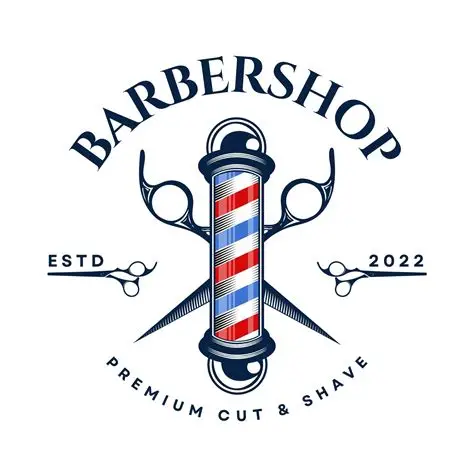
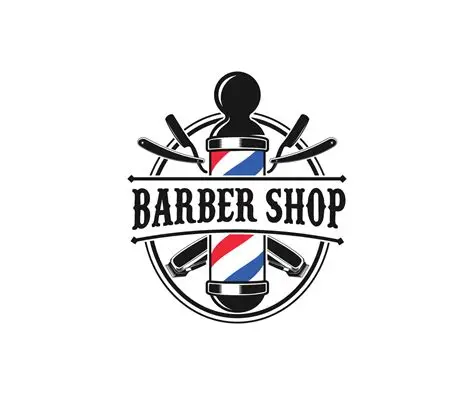
Fase 3: orari con logica aperto/chiuso e recensioni di esempio
- Emblema di sfondo sostituito con la seconda immagine fornita, stessa
  lavorazione (bianco trasparente + tinta oro) e ritaglio del bordo vuoto
- Orari: tabella HTML statica dei 7 giorni, leggibile anche senza JS;
  JS evidenzia la riga di oggi con barra oro ed etichetta "Oggi" (non solo
  colore, per chi non distingue i colori) e calcola Aperto/Chiuso ora con
  il prossimo orario utile, ricontrollato ogni minuto
- Recensioni: 3 card marcate "Recensione di esempio" con nota in chiaro sul
  perche' non possono restare finte, bottone Google con TODO sul link
- CSS: sezioni orari e recensioni, utility .sr-only, cifre tabular-nums

Claude-Session: https://claude.ai/code/session_01LPXqSkWR4KYigTCr77Jiez

Changed region(s): [[0.089, 0.0911, 0.9195, 0.9114], [0.6229, 0.7291, 0.7712, 0.8506]]

diff --git a/index.html b/index.html
@@ -239,6 +239,124 @@
     </div>
   </section>
 
+  <!-- ===================== ORARI ===================== -->
+  <section class="sezione" id="orari" data-reveal>
+    <div class="wrap">
+      <p class="eyebrow">Orari</p>
+      <h2 class="sezione-titolo">Quando siamo aperti</h2>
+      <p class="sezione-intro">
+        Sette giorni su sette, festivi compresi. Nessuna chiusura infrasettimanale.
+      </p>
+
+      <div class="orari-box">
+        <!-- La tabella e' scritta nell'HTML, non generata da JS: resta
+             leggibile (e indicizzabile) anche senza JavaScript.
+             JS si limita a evidenziare il giorno di oggi. -->
+        <table class="orari-tabella">
+          <caption class="sr-only">Orari di apertura settimanali</caption>
+          <tbody>
+            <!-- data-giorno segue Date.getDay(): domenica = 0, lunedi' = 1 ... -->
+            <tr data-giorno="1"><th scope="row">Lunedì</th>   <td>09:00 – 21:00</td></tr>
+            <tr data-giorno="2"><th scope="row">Martedì</th>  <td>09:00 – 21:00</td></tr>
+            <tr data-giorno="3"><th scope="row">Mercoledì</th><td>09:00 – 21:00</td></tr>
+            <tr data-giorno="4"><th scope="row">Giovedì</th>  <td>09:00 – 21:00</td></tr>
+            <tr data-giorno="5"><th scope="row">Venerdì</th>  <td>09:00 – 21:00</td></tr>
+            <tr data-giorno="6"><th scope="row">Sabato</th>   <td>09:00 – 21:00</td></tr>
+            <tr data-giorno="0"><th scope="row">Domenica</th> <td>09:00 – 21:00</td></tr>
+          </tbody>
+        </table>
+
+        <!-- Riempito da JS: pastiglia aperto/chiuso + prossimo orario utile -->
+        <div class="orari-stato" id="orari-stato" aria-live="polite"></div>
+      </div>
+
+      <p class="nota">
+        Chiusure straordinarie o ferie? Le trovi sul nostro
+        <a class="link-oro" href="https://www.instagram.com/parrucchiere_della_citta/" target="_blank" rel="noopener">profilo Instagram</a>.
+      </p>
+    </div>
+  </section>
+
+  <!-- ===================== RECENSIONI ===================== -->
+  <section class="sezione sezione-alt" id="recensioni" data-reveal>
+    <div class="wrap">
+      <p class="eyebrow">Recensioni</p>
+      <h2 class="sezione-titolo">Dicono di noi</h2>
+      <p class="sezione-intro">
+        I testi qui sotto sono segnaposto: nella versione ufficiale vanno
+        sostituiti con recensioni reali, riportate parola per parola.
+      </p>
+
+      <!-- ======================= DA SOSTITUIRE =======================
+           Queste 3 recensioni sono INVENTATE e dichiarate tali.
+           Pubblicare recensioni finte senza etichetta e' una pratica
+           commerciale scorretta (Codice del Consumo, art. 21-23).
+           Nella versione ufficiale: copiare recensioni vere da Google,
+           con il nome dell'autore, oppure togliere del tutto la sezione.
+           ============================================================= -->
+      <ul class="recensioni-griglia">
+
+        <li class="card recensione">
+          <p class="recensione-tag">Recensione di esempio</p>
+          <div class="stelle" role="img" aria-label="Valutazione 5 stelle su 5">
+            <svg viewBox="0 0 24 24" aria-hidden="true"><path d="m12 2 3 6.6 7 .8-5.2 4.9 1.4 7L12 17.8 5.8 21.3l1.4-7L2 9.4l7-.8z"/></svg>
+            <svg viewBox="0 0 24 24" aria-hidden="true"><path d="m12 2 3 6.6 7 .8-5.2 4.9 1.4 7L12 17.8 5.8 21.3l1.4-7L2 9.4l7-.8z"/></svg>
+            <svg viewBox="0 0 24 24" aria-hidden="true"><path d="m12 2 3 6.6 7 .8-5.2 4.9 1.4 7L12 17.8 5.8 21.3l1.4-7L2 9.4l7-.8z"/></svg>
+            <svg viewBox="0 0 24 24" aria-hidden="true"><path d="m12 2 3 6.6 7 .8-5.2 4.9 1.4 7L12 17.8 5.8 21.3l1.4-7L2 9.4l7-.8z"/></svg>
+            <svg viewBox="0 0 24 24" aria-hidden="true"><path d="m12 2 3 6.6 7 .8-5.2 4.9 1.4 7L12 17.8 5.8 21.3l1.4-7L2 9.4l7-.8z"/></svg>
+          </div>
+          <blockquote>
+            <p>Testo di esempio. Qui andrà la recensione di un cliente reale: com'è stato accolto, che taglio ha chiesto e come si è trovato.</p>
+          </blockquote>
+          <p class="recensione-autore">Nome del cliente</p>
+        </li>
+
+        <li class="card recensione">
+          <p class="recensione-tag">Recensione di esempio</p>
+          <div class="stelle" role="img" aria-label="Valutazione 5 stelle su 5">
+            <svg viewBox="0 0 24 24" aria-hidden="true"><path d="m12 2 3 6.6 7 .8-5.2 4.9 1.4 7L12 17.8 5.8 21.3l1.4-7L2 9.4l7-.8z"/></svg>
+            <svg viewBox="0 0 24 24" aria-hidden="true"><path d="m12 2 3 6.6 7 .8-5.2 4.9 1.4 7L12 17.8 5.8 21.3l1.4-7L2 9.4l7-.8z"/></svg>
+            <svg viewBox="0 0 24 24" aria-hidden="true"><path d="m12 2 3 6.6 7 .8-5.2 4.9 1.4 7L12 17.8 5.8 21.3l1.4-7L2 9.4l7-.8z"/></svg>
+            <svg viewBox="0 0 24 24" aria-hidden="true"><path d="m12 2 3 6.6 7 .8-5.2 4.9 1.4 7L12 17.8 5.8 21.3l1.4-7L2 9.4l7-.8z"/></svg>
+            <svg viewBox="0 0 24 24" aria-hidden="true"><path d="m12 2 3 6.6 7 .8-5.2 4.9 1.4 7L12 17.8 5.8 21.3l1.4-7L2 9.4l7-.8z"/></svg>
+          </div>
+          <blockquote>
+            <p>Testo di esempio. Spazio per una recensione che parli del lavoro fatto: fade, barba, colore o disegno rasato.</p>
+          </blockquote>
+          <p class="recensione-autore">Nome del cliente</p>
+        </li>
+
+        <li class="card recensione">
+          <p class="recensione-tag">Recensione di esempio</p>
+          <div class="stelle" role="img" aria-label="Valutazione 5 stelle su 5">
+            <svg viewBox="0 0 24 24" aria-hidden="true"><path d="m12 2 3 6.6 7 .8-5.2 4.9 1.4 7L12 17.8 5.8 21.3l1.4-7L2 9.4l7-.8z"/></svg>
+            <svg viewBox="0 0 24 24" aria-hidden="true"><path d="m12 2 3 6.6 7 .8-5.2 4.9 1.4 7L12 17.8 5.8 21.3l1.4-7L2 9.4l7-.8z"/></svg>
+            <svg viewBox="0 0 24 24" aria-hidden="true"><path d="m12 2 3 6.6 7 .8-5.2 4.9 1.4 7L12 17.8 5.8 21.3l1.4-7L2 9.4l7-.8z"/></svg>
+            <svg viewBox="0 0 24 24" aria-hidden="true"><path d="m12 2 3 6.6 7 .8-5.2 4.9 1.4 7L12 17.8 5.8 21.3l1.4-7L2 9.4l7-.8z"/></svg>
+            <svg viewBox="0 0 24 24" aria-hidden="true"><path d="m12 2 3 6.6 7 .8-5.2 4.9 1.4 7L12 17.8 5.8 21.3l1.4-7L2 9.4l7-.8z"/></svg>
+          </div>
+          <blockquote>
+            <p>Testo di esempio. Utile anche una recensione sull'orario comodo: aperti tutti i giorni fino alle 21.</p>
+          </blockquote>
+          <p class="recensione-autore">Nome del cliente</p>
+        </li>
+
+      </ul>
+
+      <div class="recensioni-cta">
+        <!-- TODO: sostituire href="#" con il link vero alle recensioni Google.
+             Come trovarlo: Google Maps > scheda dell'attivita' > Recensioni >
+             Condividi, oppure il link "Scrivi una recensione" del profilo
+             Google Business. Ricordarsi di togliere aria-disabled. -->
+        <a class="btn btn-ghost btn-lg" href="#" aria-disabled="true">
+          <svg class="ico" viewBox="0 0 24 24" aria-hidden="true"><path d="m12 2 3 6.6 7 .8-5.2 4.9 1.4 7L12 17.8 5.8 21.3l1.4-7L2 9.4l7-.8z"/></svg>
+          Leggi le recensioni su Google
+        </a>
+        <p class="nota nota-todo">Link da collegare prima della pubblicazione.</p>
+      </div>
+    </div>
+  </section>
+
 </main>
 
 <script src="js/main.js"></script>

diff --git a/css/style.css b/css/style.css
@@ -115,6 +115,16 @@ h1, h2, h3 {
   outline-offset: 3px;
 }
 
+/* Visibile solo agli screen reader (es. la didascalia della tabella) */
+.sr-only {
+  position: absolute;
+  width: 1px; height: 1px;
+  padding: 0; margin: -1px;
+  overflow: hidden;
+  clip-path: inset(50%);
+  white-space: nowrap;
+}
+
 .skip-link {
   position: absolute;
   left: -9999px;
@@ -320,8 +330,8 @@ h1, h2, h3 {
   top: 50%;
   left: 50%;
   translate: -50% -50%;
-  width: min(118vw, 760px);
-  aspect-ratio: 1 / 1;
+  width: min(112vw, 700px);
+  aspect-ratio: 7 / 8;   /* proporzioni del file emblema-oro.png */
   background: url('../img/emblema-oro.png') center / contain no-repeat;
   opacity: .17;
   pointer-events: none;
@@ -528,7 +538,126 @@ h1, h2, h3 {
 .galleria-cta { margin-top: 26px; text-align: center; }
 .galleria-cta .btn { width: 100%; max-width: 480px; }
 
-/* ----------------------------- 13. DESKTOP -------------------------------- */
+/* ----------------------------- 13. ORARI --------------------------------- */
+.orari-box {
+  max-width: 560px;
+  background: var(--carbone);
+  border: 1px solid var(--bordo);
+  border-radius: var(--radius);
+  overflow: hidden;
+}
+
+.orari-tabella {
+  width: 100%;
+  border-collapse: collapse;
+  font-size: 1rem;
+}
+.orari-tabella th,
+.orari-tabella td {
+  padding: 14px 20px;
+  text-align: left;
+  border-bottom: 1px solid var(--bordo);
+}
+.orari-tabella th {
+  font-weight: 500;
+  color: var(--bianco);
+}
+.orari-tabella td {
+  text-align: right;
+  color: var(--grigio);
+  /* cifre a larghezza fissa: gli orari restano incolonnati */
+  font-variant-numeric: tabular-nums;
+}
+
+/* Giorno di oggi: la classe la mette JS (js/main.js).
+   Il colore da solo non basterebbe per chi non distingue i colori,
+   per questo aggiungiamo anche la barra a sinistra e l'etichetta "Oggi". */
+.orari-tabella tr.is-oggi {
+  background: rgba(201, 162, 39, .1);
+  box-shadow: inset 3px 0 0 var(--oro);
+}
+.orari-tabella tr.is-oggi th,
+.orari-tabella tr.is-oggi td { color: var(--oro); font-weight: 600; }
+
+.oggi-tag {
+  display: inline-block;
+  margin-left: 9px;
+  padding: 2px 8px;
+  border-radius: 999px;
+  background: var(--oro);
+  color: #14100a;
+  font-size: .62rem;
+  font-weight: 700;
+  letter-spacing: .12em;
+  text-transform: uppercase;
+  vertical-align: 2px;
+}
+
+.orari-stato {
+  display: flex;
+  flex-wrap: wrap;
+  align-items: center;
+  gap: 10px;
+  padding: 18px 20px;
+  background: rgba(0, 0, 0, .28);
+  font-size: .93rem;
+  color: var(--grigio);
+}
+
+/* ----------------------------- 14. RECENSIONI ---------------------------- */
+.recensioni-griglia {
+  display: grid;
+  gap: 16px;
+  grid-template-columns: 1fr;
+}
+
+.recensione {
+  display: flex;
+  flex-direction: column;
+  padding: 24px 22px;
+}
+
+/* Etichetta ben visibile: queste recensioni NON sono reali */
+.recensione-tag {
+  align-self: flex-start;
+  margin: 0 0 14px;
+  padding: 4px 10px;
+  border: 1px dashed var(--bordo);
+  border-radius: 999px;
+  font-size: .66rem;
+  font-weight: 600;
+  letter-spacing: .12em;
+  text-transform: uppercase;
+  color: var(--grigio);
+}
+
+.stelle { display: flex; gap: 3px; margin-bottom: 12px; }
+.stelle svg { width: 18px; height: 18px; fill: var(--oro); }
+
+.recensione blockquote { margin: 0 0 18px; }
+.recensione blockquote p {
+  margin: 0;
+  color: var(--bianco);
+  opacity: .9;
+  font-size: 1rem;
+}
+/* margin-top:auto tiene il nome in fondo a tutte le card della riga */
+.recensione-autore {
+  margin: auto 0 0;
+  padding-top: 6px;
+  font-family: var(--titolo);
+  font-size: .92rem;
+  font-weight: 500;
+  letter-spacing: .08em;
+  text-transform: uppercase;
+  color: var(--grigio);
+}
+
+.recensioni-cta { margin-top: 28px; text-align: center; }
+.recensioni-cta .btn { width: 100%; max-width: 420px; }
+.nota-todo { font-size: .82rem; font-style: italic; }
+
+/* ----------------------------- 15. DESKTOP -------------------------------- */
 @media (min-width: 860px) {
   :root { --header-h: 82px; }
 
@@ -561,6 +690,8 @@ h1, h2, h3 {
   .servizi-griglia { grid-template-columns: repeat(4, 1fr); gap: 18px; }
   .galleria { gap: 6px; }
   .galleria-cta { margin-top: 34px; }
+  .recensioni-griglia { grid-template-columns: repeat(3, 1fr); gap: 20px; }
+  .orari-tabella th, .orari-tabella td { padding: 16px 26px; font-size: 1.05rem; }
 
 }
 
@@ -568,7 +699,7 @@ h1, h2, h3 {
   .servizi-griglia { grid-template-columns: repeat(2, 1fr); }
 }
 
-/* ----------------------------- 14. ANIMAZIONI ----------------------------- */
+/* ----------------------------- 16. ANIMAZIONI ----------------------------- */
 /* Le sezioni compaiono con una risalita leggera. La classe .reveal viene
    aggiunta da JS solo se l'utente non ha chiesto meno animazioni. */
 .reveal {

diff --git a/js/main.js b/js/main.js
@@ -87,24 +87,57 @@
     return h + ':' + (m < 10 ? '0' + m : m);
   }
 
-  function aggiornaStato() {
-    var s = statoAttuale(new Date());
+  // Testo della prossima apertura/chiusura, in italiano corrente
+  function prossimoPassaggio(s) {
+    if (s.aperto) return 'Chiudiamo alle ' + hhmm(s.giorno.chiude);
+    if (s.minuti < s.giorno.apre) return 'Apriamo alle ' + hhmm(s.giorno.apre);
+    // Dopo la chiusura guardo il giorno dopo (il 7 serve per tornare a domenica)
+    var domani = ORARI[(new Date().getDay() + 1) % 7];
+    return 'Riapriamo domani alle ' + hhmm(domani.apre);
+  }
 
-    // Pastiglia nell'hero
+  function pastiglia(aperto) {
+    return '<span class="pill ' + (aperto ? 'pill-open">Aperto ora' : 'pill-closed">Chiuso ora') + '</span>';
+  }
+
+  function aggiornaStato() {
+    var adesso = new Date();
+    var s = statoAttuale(adesso);
+
+    // --- pastiglia nell'hero ---
     var box = document.getElementById('hero-status');
-    if (box) {
-      var testo = s.aperto
-        ? 'Chiudiamo alle ' + hhmm(s.giorno.chiude)
-        : (s.minuti < s.giorno.apre
-            ? 'Apriamo alle ' + hhmm(s.giorno.apre)
-            : 'Domani apriamo alle ' + hhmm(s.giorno.apre));
-      box.innerHTML = '<span class="pill ' + (s.aperto ? 'pill-open">Aperto ora' : 'pill-closed">Chiuso ora') +
-                      '</span>' + testo;
+    if (box) box.innerHTML = pastiglia(s.aperto) + prossimoPassaggio(s);
+
+    // --- pastiglia sotto la tabella degli orari ---
+    var stato = document.getElementById('orari-stato');
+    if (stato) {
+      stato.innerHTML = pastiglia(s.aperto) +
+        '<span>' + s.giorno.nome + ', ' + prossimoPassaggio(s).toLowerCase() + '</span>';
+    }
+
+    // --- evidenzia la riga del giorno corrente ---
+    var righe = document.querySelectorAll('.orari-tabella tr[data-giorno]');
+    for (var i = 0; i < righe.length; i++) {
+      var riga = righe[i];
+      var oggi = Number(riga.getAttribute('data-giorno')) === adesso.getDay();
+      riga.classList.toggle('is-oggi', oggi);
+
+      // L'etichetta "Oggi" si aggiunge una volta sola, non a ogni giro
+      var tag = riga.querySelector('.oggi-tag');
+      if (oggi && !tag) {
+        tag = document.createElement('span');
+        tag.className = 'oggi-tag';
+        tag.textContent = 'Oggi';
+        riga.querySelector('th').appendChild(tag);
+      } else if (!oggi && tag) {
+        tag.remove();
+      }
     }
   }
 
   aggiornaStato();
   // Ricontrollo ogni minuto: se la pagina resta aperta lo stato resta corretto
+  // (e a mezzanotte si sposta da solo sul giorno nuovo).
   setInterval(aggiornaStato, 60000);
 
   /* ---------------------------------------------------------------
